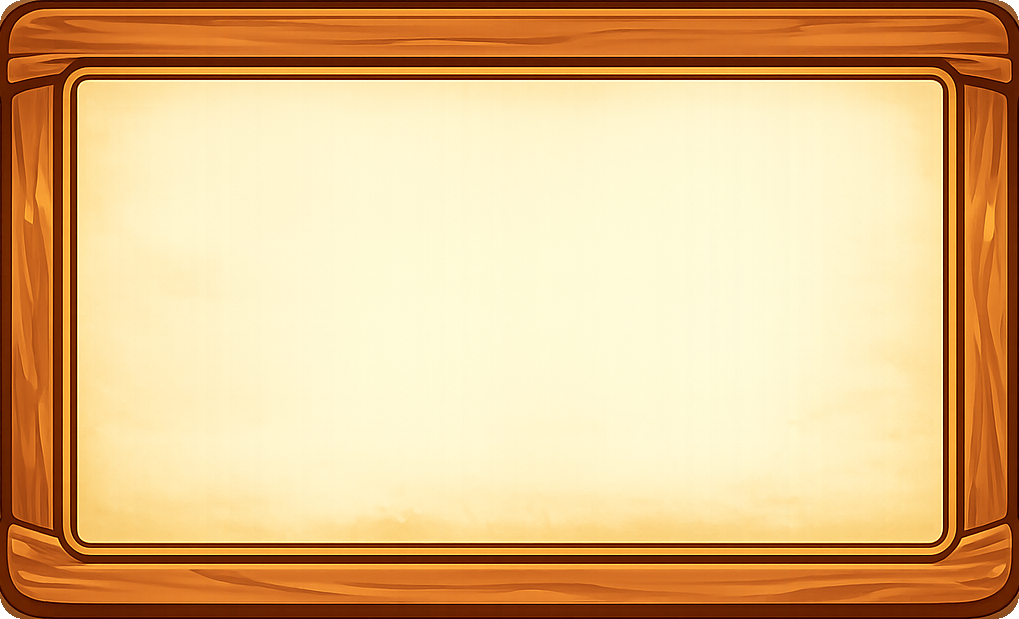
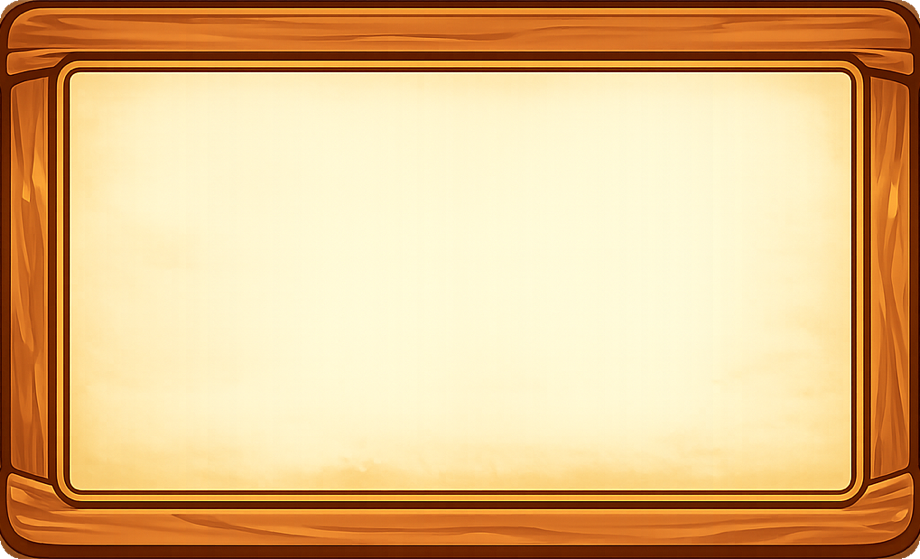
perf: 첫 화면이 받는 UI 그림을 렌더 크기의 2배로 줄임
별·화살표·나무 명패·버튼이 실제로 그려지는 크기보다 10배 넘게 큰
원본을 쓰고 있었다. sips로 렌더 크기의 2배까지 줄여 public/ui가
7.3MB에서 3.5MB로 내려간다. Splash가 이걸 다 미리 받으므로 그만큼
첫 화면 대기가 짧아진다.

settings-frame은 원본이 1019에서 920으로 줄어든 만큼 border-image
조각도 80에서 72로 다시 계산했다(80 × 920/1019). 나머지는 파일명과
비율이 그대로라 다른 곳은 손댈 게 없다.

paper-frame은 창 폭 520px의 2배가 이미 원본 크기(1055×1285)라
줄일 여지가 없어 그대로 뒀다.

Changed region(s): [[0.0913, 0.0912, 0.913, 0.1216]]

diff --git a/app/globals.css b/app/globals.css
@@ -57,6 +57,45 @@ button:disabled { cursor: var(--cursor-arrow); }
   white-space: nowrap;
 }
 
+/* 첫 화면. 그림을 다 받을 때까지 로고를 덮어 둔다. 게임에 들어가서야
+   그림이 하나씩 뜨는 것보다 여기서 한 번에 기다리는 편이 낫다. */
+.splash {
+  position: fixed;
+  z-index: 9000;
+  inset: 0;
+  display: grid;
+  align-content: center;
+  justify-items: center;
+  gap: clamp(20px, 4svh, 44px);
+  background: var(--plank-wall), #241408;
+}
+.splash-logo {
+  width: min(46%, 62svh);
+  height: auto;
+  animation: splash-breathe 1.6s ease-in-out infinite alternate;
+}
+@keyframes splash-breathe {
+  to { transform: scale(1.035); }
+}
+.splash-bar {
+  display: block;
+  width: min(280px, 40vw);
+  height: 12px;
+  overflow: hidden;
+  border: 3px solid #7b4a24;
+  border-radius: 99px;
+  background: #1d1009;
+}
+.splash-bar i {
+  display: block;
+  height: 100%;
+  background: var(--gold);
+  transition: width .2s ease;
+}
+@media (prefers-reduced-motion: reduce) {
+  .splash-logo { animation: none; }
+}
+
 .home-screen {
   position: relative;
   isolation: isolate;
@@ -212,7 +251,7 @@ button:disabled { cursor: var(--cursor-arrow); }
 
 .settings-overlay[data-open] { opacity: 1; pointer-events: auto; }
 
-/* 소리 설정은 가로로 긴 나무 액자 그림을 쓴다. 액자 두께가 사방 78/1019로
+/* 소리 설정은 가로로 긴 나무 액자 그림을 쓴다. 액자 두께가 사방 70/920으로
    고른 그림이라 9분할이 그대로 먹는다. 창 폭(460)에 맞춰 두께를 35px로 줄여
    비율을 지킨다. 모서리는 늘어나지 않고 가운데 종이만 늘어난다. */
 .settings-drawer {
@@ -221,7 +260,7 @@ button:disabled { cursor: var(--cursor-arrow); }
   width: min(460px, calc(100vw - 24px));
   gap: 14px;
   border: 35px solid transparent;
-  border-image: url("/ui/settings-frame.png") 80 fill / 35px / 0 stretch;
+  border-image: url("/ui/settings-frame.png") 72 fill / 35px / 0 stretch;
   padding: 2px 12px 14px;
   color: var(--paper-ink);
   filter: drop-shadow(0 16px 40px #000b);
@@ -283,12 +322,11 @@ button:disabled { cursor: var(--cursor-arrow); }
 .music-settings-game { position: absolute; z-index: 60; top: 12px; right: 12px; }
 .game-settings-trigger {
   display: grid;
-  width: 84px;
-  aspect-ratio: 758 / 339;
-  padding: 3px;
+  width: 46px;
+  aspect-ratio: 1;
+  padding: 0;
   place-items: center;
 }
-.settings-icon { width: 18px; height: 18px; object-fit: contain; }
 
 .stage {
   position: relative;
@@ -351,6 +389,8 @@ button:disabled { cursor: var(--cursor-arrow); }
   max-width: calc((100svh - var(--game-top-rail) - var(--game-bottom-rail)) * 1.75);
   aspect-ratio: 14 / 8;
 }
+/* 대사 화면의 어두운 막(40)보다 위. 다른 화살표(42)와 같은 층에 둔다. */
+.coach-map-over-dialogue { z-index: 42; }
 .coach-map-arrow {
   position: absolute;
   width: clamp(42px, 4.4vw, 58px);
@@ -1011,8 +1051,18 @@ button:disabled { cursor: var(--cursor-arrow); }
 .game-inspector .stat-gauge i { background: #75502a; }
 .inspector-badges,
 .required-slimes { display: flex; flex-wrap: wrap; justify-content: center; gap: 9px; }
-.inspector-badges span,
 .required-slimes > span { border: 2px solid #7b4a24; border-radius: 3px; padding: 8px 12px; background: #4b2b17; color: #fff0c8; }
+/* 슬라임 특징과 설비의 가능한 작업은 같은 판때기 그림 하나를 늘려 쓴다.
+   말상자처럼 네 귀퉁이(19px 곡선)를 고정하고 가운데만 늘어나므로 글자 수가
+   달라도 테두리가 찌그러지지 않는다. */
+.inspector-badges span,
+.station-workflow b {
+  border: 9px solid transparent;
+  border-radius: 0;
+  border-image: url("/ui/panel-base.png") 20 fill / 9px / 0 stretch;
+  background: none;
+  color: #33200f;
+}
 .required-slimes > span:not(.any-slime) { display: grid; grid-template-columns: 30px auto; align-items: center; gap: 5px; }
 .required-slimes img { width: 30px; height: 30px; object-fit: contain; }
 .station-workflow { display: grid; gap: 4px; }
@@ -1033,7 +1083,7 @@ button:disabled { cursor: var(--cursor-arrow); }
   background: #fff;
 }
 .station-workflow i img { display: block; width: 100%; height: 100%; padding: 10%; object-fit: contain; box-sizing: border-box; }
-.station-workflow b { border: 1px solid #9b6735; border-radius: 3px; padding: 5px 9px; background: #f2ddb2; font-size: 12px; }
+.station-workflow b { padding: 0 2px; font-size: 12px; }
 .inspector-badges img { width: 26px; height: 26px; object-fit: contain; }
 .inspector-badges span { display: grid; grid-template-columns: 26px auto; align-items: center; gap: 6px; }
 
@@ -1089,7 +1139,7 @@ button:disabled { cursor: var(--cursor-arrow); }
   .station-workflow { gap: 3px; }
   .station-workflow span { grid-template-columns: 32px 1fr; gap: 6px; }
   .station-workflow i { width: 32px; height: 32px; border-radius: 8px; }
-  .station-workflow b { padding: 3px 7px; font-size: 11px; }
+  .station-workflow b { font-size: 11px; }
   .inspector-hint { margin-top: 8px; font-size: 11px; }
 }
 
@@ -1678,14 +1728,19 @@ img.paper-title { width: 56%; height: 11.4%; top: 4.9%; left: 22%; object-fit: c
   .game-inspector h3 { margin: 8px 0 4px; font-size: 10px; }
   .inspector-copy { font-size: 9px; line-height: 1.25; }
   .game-inspector .slime-stats { margin-top: 7px; }
-  .inspector-badges span, .required-slimes > span { padding: 3px 7px; font-size: 8px; }
+  .required-slimes > span { padding: 3px 7px; font-size: 8px; }
+  /* 판때기 그림은 padding이 아니라 테두리 두께가 여백이라 그쪽을 줄인다. */
+  .inspector-badges span, .station-workflow b {
+    border-width: 6px;
+    border-image-width: 6px;
+    font-size: 8px;
+  }
   .required-slimes > span:not(.any-slime) { grid-template-columns: 22px auto; }
   .required-slimes img { width: 22px; height: 22px; }
-  .station-workflow b { padding: 4px 6px; font-size: 8px; }
   .inspector-hint { margin-top: 8px; font-size: 8px; }
   .music-settings-game { top: 7px; right: 7px; }
-  .game-settings-trigger { width: 72px; height: auto; padding: 2px !important; }
-  .settings-icon { width: 16px; height: 16px; }
+  .art-button.game-settings-trigger,
+  .stage-frame button.game-settings-trigger { width: 36px; }
 
   .stage-info-screen { display: grid; gap: 6px; padding: 7px; }
   .stage-info-header { min-height: 38px; margin: 0; padding: 6px 12px; border-radius: 9px; }
@@ -1788,7 +1843,15 @@ img.paper-title { width: 56%; height: 11.4%; top: 4.9%; left: 22%; object-fit: c
   color: #26160b;
   cursor: var(--cursor-hand);
 }
-.stage-frame .game-settings-trigger { padding: 3px; }
+/* 설정만 나무 버튼 대신 톱니가 그려진 전용 그림을 쓴다. .art-button과
+   .stage-frame button보다 세게 잡아야 배경 그림이 안 밀린다. */
+.art-button.game-settings-trigger,
+.stage-frame button.game-settings-trigger {
+  width: 46px;
+  aspect-ratio: 1;
+  padding: 0;
+  background-image: url("/ui/settings-button.png");
+}
 .settings-home-link.art-button {
   display: grid;
   place-items: center;
